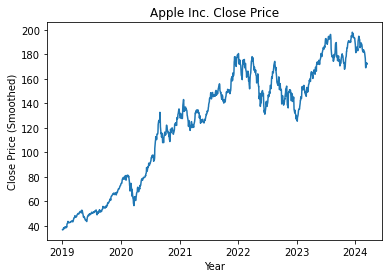
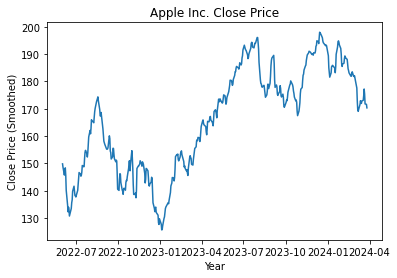
changed plots, fixed overfitting issue

diff --git a/RFC Direction Prediction AAPL.py b/RFC Direction Prediction AAPL.py
@@ -16,12 +16,12 @@ from sklearn.model_selection import RandomizedSearchCV
 #of data from 2019/01/01, testing it on the remaining 30%, with a time horizon of 90 days.
 apl=yf.Ticker("AAPL")
 #apl=apl.history(period="max", auto_adjust=False)
-apl=apl.history(start="2019-01-01", end=dt.today().strftime('%Y-%m-%d'), auto_adjust=False)
+apl=apl.history(start="2022-06-01", end=dt.today().strftime('%Y-%m-%d'), auto_adjust=False)
 apl=apl.drop(columns=["Dividends", "Stock Splits"])
 
 ##########Exponential Smoothing - exponentially decreasing weights to past observations, recent
 #observations weighted higher
-alpha=0.7 #Can play with this; large alpha reduces the smoothing
+alpha=0.45 #Can play with this; large alpha reduces the smoothing
 apl["Smoothed_Close"]=alpha*apl["Close"]+(1-alpha)*(apl["Close"].shift(1))
 apl["Smoothed_Open"]=alpha*apl["Open"]+(1-alpha)*(apl["Open"].shift(1))
 apl["Smoothed_High"]=alpha*apl["High"]+(1-alpha)*(apl["High"].shift(1))
@@ -29,7 +29,7 @@ apl["Smoothed_Low"]=alpha*apl["Low"]+(1-alpha)*(apl["Low"].shift(1))
 apl["Smoothed_Volume"]=alpha*apl["Volume"]+(1-alpha)*(apl["Volume"].shift(1))
 #Target setup (Equation (3))
 d=90 #Time horizon in days
-apl["Target"]=np.sign(apl["Smoothed_Close"].shift(-d)-apl["Smoothed_Close"])
+apl["Target"]=np.sign(apl["Close"].shift(-d)-apl["Close"])
 
 plt.plot(apl.index, apl["Smoothed_Close"])
 plt.xlabel("Year")
@@ -99,7 +99,7 @@ apl["LCR"]=apl["Smoothed_Low"]/apl["Smoothed_Close"]
 apl["HLR"]=apl["Smoothed_High"]/apl["Smoothed_Low"]
 
 #Drop all of the columns in the dataframe we're not going to use as features, & drop NaN columns
-apl=apl.drop(columns=["Open", "High", "Low", "Close", "Volume", "Smoothed_Close", "Smoothed_Open", "Smoothed_Volume", "Smoothed_High", "Smoothed_Low"])
+apl=apl.drop(columns=["Adj Close", "Open", "High", "Low", "Close", "Volume", "Smoothed_Close", "Smoothed_Open", "Smoothed_Volume", "Smoothed_High", "Smoothed_Low"])
 apl=apl.dropna(axis=0)
 
 ##########Building the RFC model
@@ -145,7 +145,7 @@ X_train=X_train.drop(columns=["Williams %R"])#Drop the least important feature(s
 X_test=X_test.drop(columns=["Williams %R"])
 
 #Run again and readjust hyperparams
-RFC=RandomForestClassifier(n_estimators=110, criterion="entropy", max_features="sqrt", min_samples_split=31, max_depth=20, max_leaf_nodes=250, random_state=42)
+RFC=RandomForestClassifier(n_estimators=120, criterion="entropy", max_features="sqrt", min_samples_split=30, max_depth=20, max_leaf_nodes=250, random_state=42)
 RFC.fit(X_train, y_train)
 feature_scores=pd.Series(RFC.feature_importances_, index=X_train.columns).sort_values(ascending=False)
 predictions=RFC.predict(X_test)
